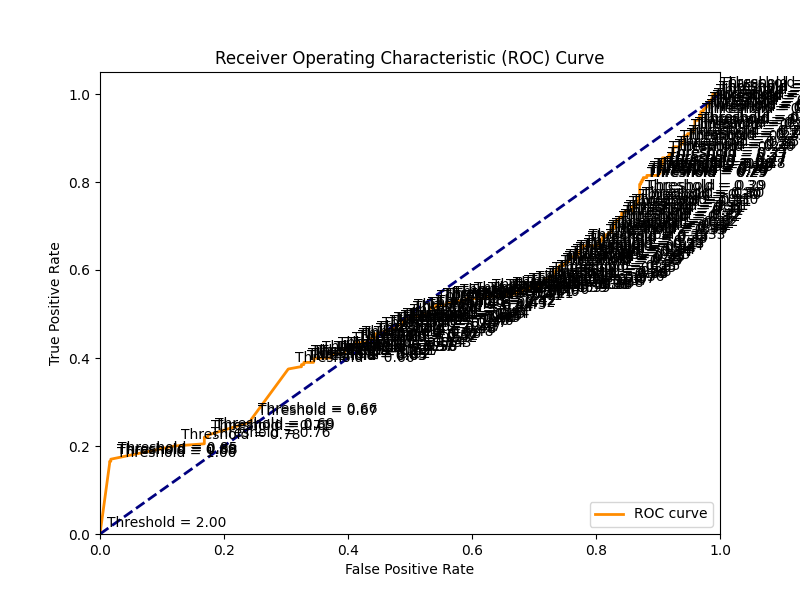
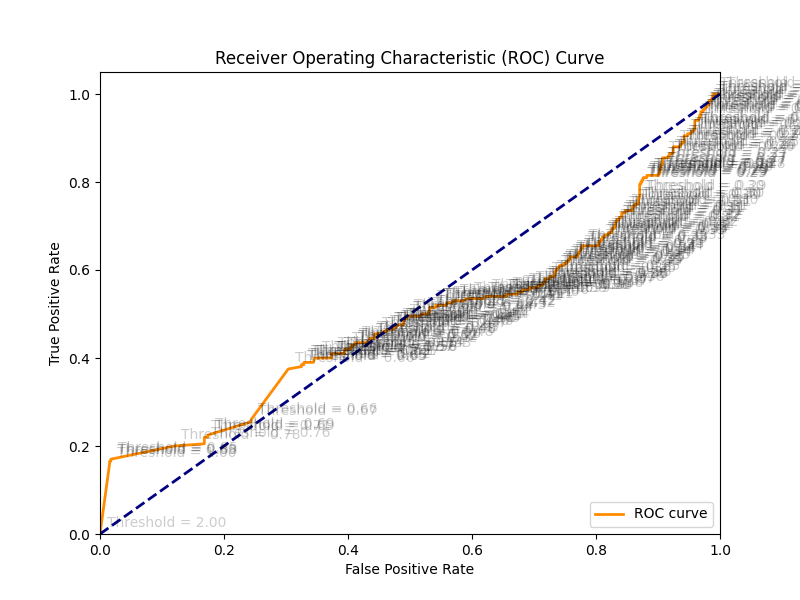
experiment

diff --git a/roc.py b/roc.py
@@ -19,7 +19,7 @@ plt.plot(fpr, tpr, color='darkorange', lw=2, label='ROC curve')
 
 # Annotate the points with thresholds
 for i, threshold in enumerate(thresholds):
-    plt.annotate(f'Threshold = {threshold:.2f}', (fpr[i], tpr[i]), textcoords='offset points', xytext=(5,5), ha='left')
+    plt.annotate(f'Threshold = {threshold:.2f}', (fpr[i], tpr[i]), textcoords='offset points', xytext=(5,5), ha='left', alpha=0.2)
 
 plt.plot([0, 1], [0, 1], color='navy', lw=2, linestyle='--')
 plt.xlim([0.0, 1.0])
